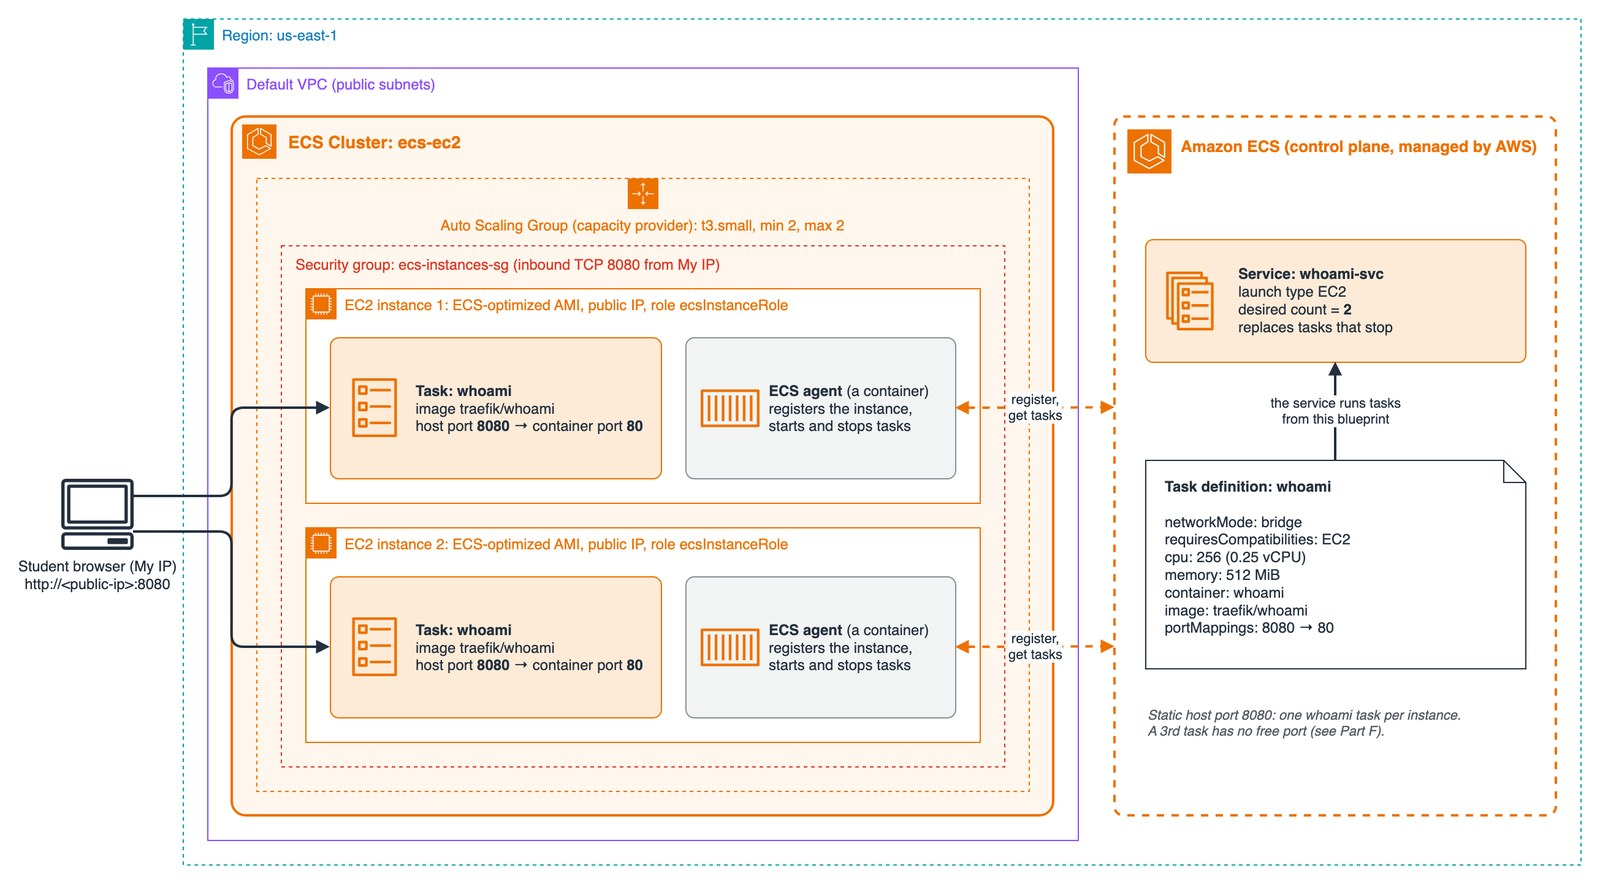
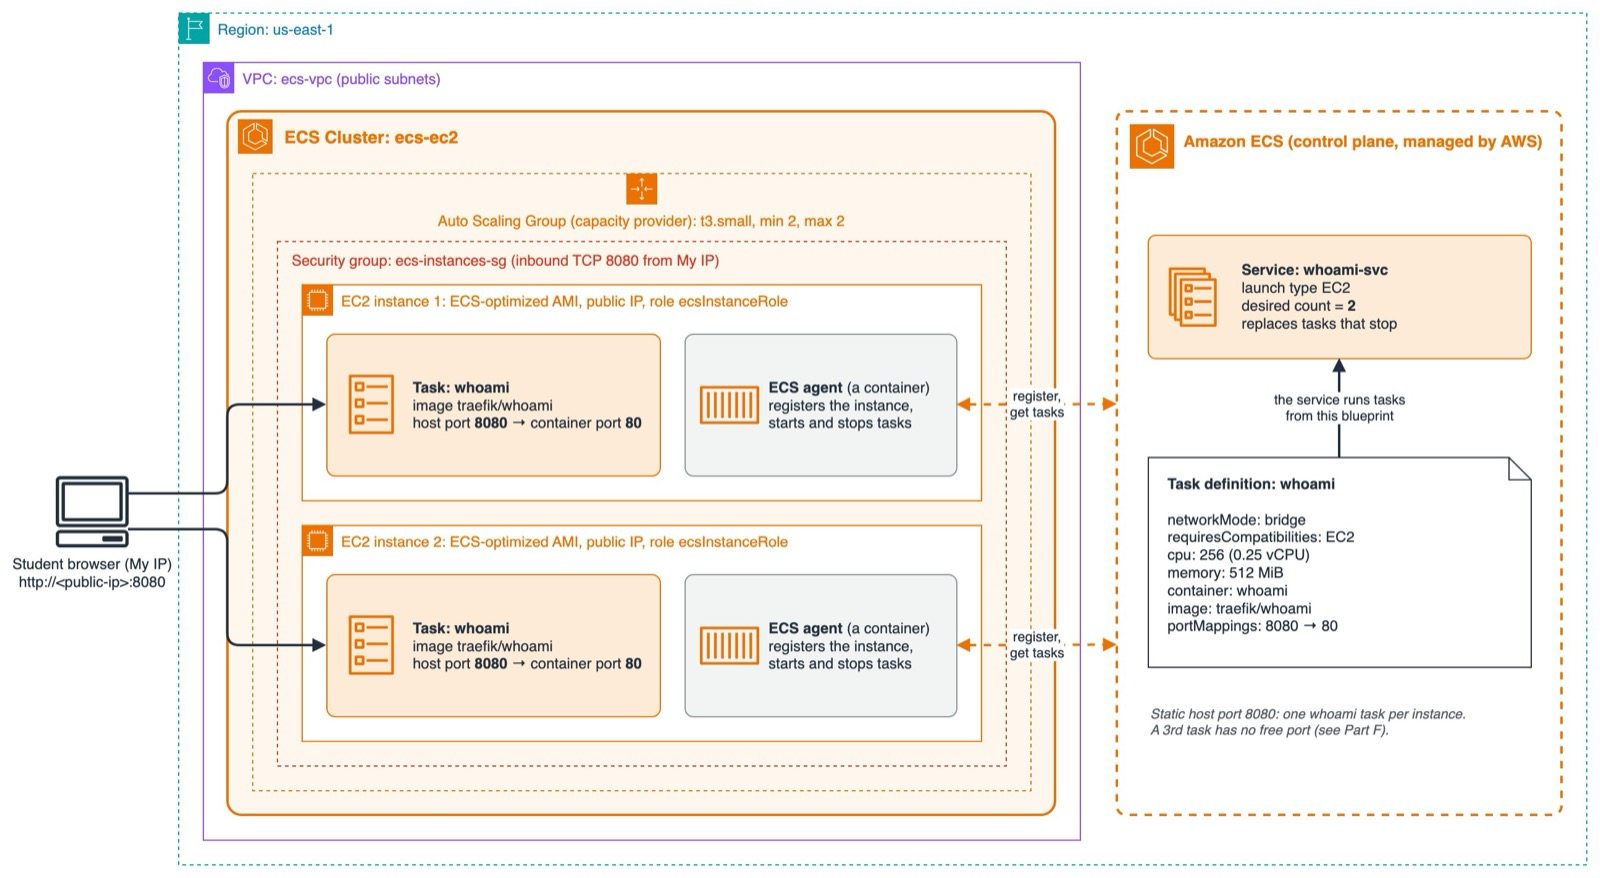
3.06 Containers Lab 1: ecs-vpc in the diagram, lab page and CLI solution

diff --git a/3.06-containers/jb-lab-1.md b/3.06-containers/jb-lab-1.md
@@ -98,20 +98,20 @@ The slides show an older Console screen, with *Networking only (Fargate)*, *EC2 
 
 **Tools:** Console + AWS CLI. Region: `us-east-1`.
 
-> **Before you start:** do the [Networking lab](../2.04-vpc-and-networking/lab-1.md). All 3.06 ContainersL run in the network it builds, **`ecs-vpc`**: wherever a step says "the default VPC", use `ecs-vpc`.
+> **Before you start:** do the [Networking lab](../2.04-vpc-and-networking/lab-1.md). All the Containers labs run in the network it builds, **`ecs-vpc`**.
 
 ### Tasks
 
 **Part A: Security group**
 
-1. Create a security group `ecs-instances-sg` in the default VPC that allows **TCP 8080 from your IP** (*My IP*).
+1. Create a security group `ecs-instances-sg` in **`ecs-vpc`** that allows **TCP 8080 from your IP** (*My IP*).
 
 **Part B: Cluster with EC2 instances**
 
 2. In **ECS → Clusters → Create cluster**, name it **`ecs-ec2`** and choose **Fargate and Self-managed instances**:
    - Create a new Auto Scaling Group, OS **Amazon Linux 2023**, instance type **t3.small**.
    - Desired capacity: **min 2, max 2**. No SSH key pair.
-   - Network: the **default VPC**, its public subnets, security group **`ecs-instances-sg`**, auto-assign public IP **on**.
+   - Network: **`ecs-vpc`**, its public subnets `ecs-public-1a` and `ecs-public-1b`, security group **`ecs-instances-sg`**, auto-assign public IP **on**.
    - Click `Create`
 3. Wait until **Infrastructure** shows **2 container instances**. Open one. What are its *Agent version* and *Docker version*?
 

diff --git a/TODO.md b/TODO.md
@@ -1,6 +1,6 @@
 # TODO
 
-- [ ] **3.06 Containers – architecture diagram:** [`images/jb-ecs-ec2.jpg`](3.06-containers/images/jb-ecs-ec2.jpg) (source: `jb-ecs-ec2.drawio`) says *Default VPC (public subnets)*. The labs run in `ecs-vpc`, the VPC that students build in the [Networking lab](2.04-vpc-and-networking/lab-1.md).
+- [ ] **3.06 Containers – default VPC leftovers:** Lab 1 (page, CLI and diagram) now uses `ecs-vpc`. Still on the default VPC: Lab 2's target group step and CLI (`jb-lab-2-solution.md`), and the Terraform for Labs 1–2 (`terraform/jb-lab-1`, `terraform/jb-lab-2`).
 - [ ] **3.05 Lambda – Labs 1–3 (`jb-lab-*.md`):** the 6 screenshots (`images/jb1-*`, `jb2-*`, `jb3-*`) and the Terraform code (`terraform/jb-lab-*`) still use the old `jb-` names. The lab text now uses `lab-1`, `lab-2-thumbnailer`, `lab-3-benchmark`.
 - [ ] **3.05 Lambda – lab numbering:** the README's own LAB 1 and LAB 2 share their numbers with Labs 1–3 (`jb-lab-*.md`), and the chapter README doesn't link to Labs 1–3.
 - [ ] **3.06 Containers – Fargate first:** the Fargate lab (`jb-lab-3.md`) is now standalone and will become Lab 1. Still to do: renumber the labs, rewrite the ALB lab for Fargate (IP targets), move the EC2 lab to the end, and update Labs 4–5, which still use the ALB from Lab 2 and expect `fargate-tasks-sg` to allow traffic from the ALB. `terraform/jb-lab-3` still builds the previous version (behind an ALB).

diff --git a/3.06-containers/jb-lab-1-solution.md b/3.06-containers/jb-lab-1-solution.md
@@ -268,9 +268,9 @@ The CLI builds the same thing piece by piece: an instance role, an empty cluster
 ```bash
 export AWS_PAGER="" AWS_REGION=us-east-1
 MY_IP=$(curl -s https://checkip.amazonaws.com)
-VPC_ID=$(aws ec2 describe-vpcs --filters Name=is-default,Values=true --query 'Vpcs[0].VpcId' --output text)
-SUBNET_A=$(aws ec2 describe-subnets --filters Name=default-for-az,Values=true Name=availability-zone,Values=us-east-1a --query 'Subnets[0].SubnetId' --output text)
-SUBNET_B=$(aws ec2 describe-subnets --filters Name=default-for-az,Values=true Name=availability-zone,Values=us-east-1b --query 'Subnets[0].SubnetId' --output text)
+VPC_ID=$(aws ec2 describe-vpcs --filters Name=tag:Name,Values=ecs-vpc --query 'Vpcs[0].VpcId' --output text)
+SUBNET_A=$(aws ec2 describe-subnets --filters Name=tag:Name,Values=ecs-public-1a --query 'Subnets[0].SubnetId' --output text)
+SUBNET_B=$(aws ec2 describe-subnets --filters Name=tag:Name,Values=ecs-public-1b --query 'Subnets[0].SubnetId' --output text)
 
 # Part A: security group
 INST_SG=$(aws ec2 create-security-group --group-name ecs-instances-sg \
